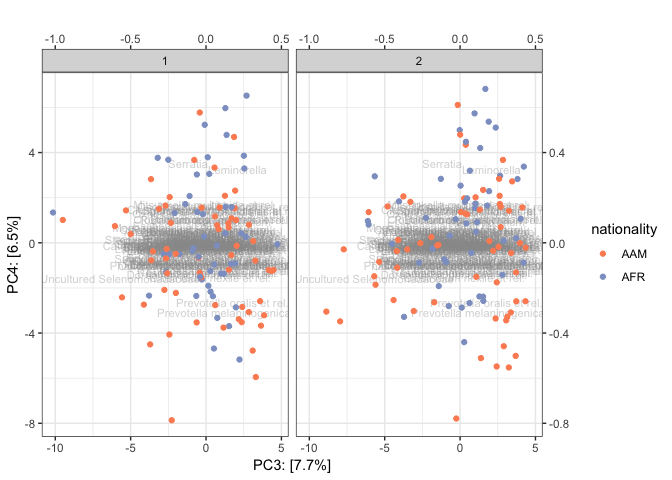
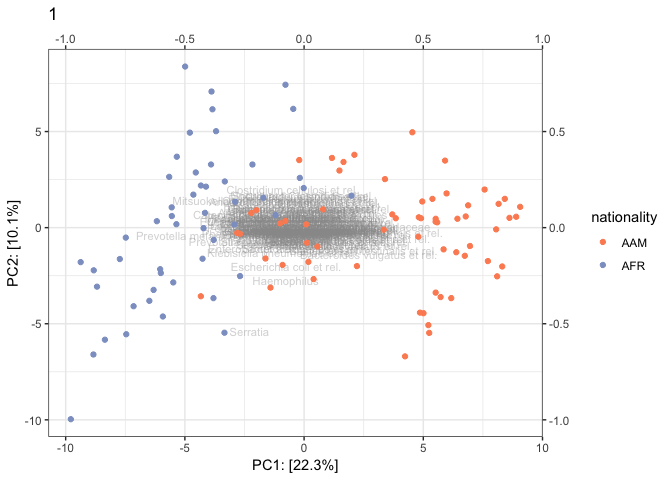
biplot example added

diff --git a/Rmd/biplot_example.md b/Rmd/biplot_example.md
@@ -38,7 +38,7 @@ scale_30[[1]]
 We have several opportunities to split the data by grouping factors. See the comments:
 
 ``` r
-# grouping by color:
+# grouping with color:
 biplot(pseq_clr, color = "nationality")
 ```
 
@@ -52,82 +52,30 @@ biplot(pseq_clr, color = "nationality")
 ![](biplot_example_files/figure-markdown_github/unnamed-chunk-4-2.png)
 
 ``` r
-# grouping by color and facetting 
-biplot(pseq_clr, color = "nationality", facet = "timepoint.within.group")
+# grouping with color and facet
+biplot(pseq_clr, color = "nationality", facet = "timepoint.within.group")[[1]]
 ```
-
-    ## [[1]]
 
 ![](biplot_example_files/figure-markdown_github/unnamed-chunk-4-3.png)
 
-    ## 
-    ## [[2]]
+``` r
+# we might want to see bigger plots and avoid facet. 
+biplot(pseq_clr, color = "nationality", split_by = "timepoint.within.group")[[1]]
+```
 
 ![](biplot_example_files/figure-markdown_github/unnamed-chunk-4-4.png)
 
 ``` r
-# we might want to see bigger plots and avoid facetting. See the title of
-# the plot to identify the group, here timepoint.within.group:
-biplot(pseq_clr, color = "nationality", split_by = "timepoint.within.group")
+# we can identify the samples using the text option:
+biplot(pseq_clr, color = "nationality", split_by = "bmi_group", text = TRUE)[[1]]
 ```
-
-    ## [[1]]
 
 ![](biplot_example_files/figure-markdown_github/unnamed-chunk-4-5.png)
-
-    ## 
-    ## [[2]]
-
-![](biplot_example_files/figure-markdown_github/unnamed-chunk-4-6.png)
-
-    ## 
-    ## [[3]]
-
-![](biplot_example_files/figure-markdown_github/unnamed-chunk-4-7.png)
-
-    ## 
-    ## [[4]]
-
-![](biplot_example_files/figure-markdown_github/unnamed-chunk-4-8.png)
-
-``` r
-# we can identify the samples using the text option:
-biplot(pseq_clr, color = "nationality", split_by = "bmi_group", text = TRUE)
-```
-
-    ## [[1]]
-
-![](biplot_example_files/figure-markdown_github/unnamed-chunk-4-9.png)
-
-    ## 
-    ## [[2]]
-
-![](biplot_example_files/figure-markdown_github/unnamed-chunk-4-10.png)
-
-    ## 
-    ## [[3]]
-
-![](biplot_example_files/figure-markdown_github/unnamed-chunk-4-11.png)
-
-    ## 
-    ## [[4]]
-
-![](biplot_example_files/figure-markdown_github/unnamed-chunk-4-12.png)
-
-    ## 
-    ## [[5]]
-
-![](biplot_example_files/figure-markdown_github/unnamed-chunk-4-13.png)
-
-    ## 
-    ## [[6]]
-
-![](biplot_example_files/figure-markdown_github/unnamed-chunk-4-14.png)
 
 Inspect composition over time
 -----------------------------
 
-Finally, we can predefine a subset of sample IDs. This can be helpful to inspect the development of few individuals over time. Inspecting all individuals over time in one plot can be impossible in large datasets due to overflow of information on the plot. If we want to inspect the development of two individuals over time we can do it as follows: We first define all sample IDs belonging to those subjects and then pass the sample IDs to the argument "filter\_samples" in the *biplot* function. To inspect development over time we need to provide the column name of the timepoint variable to the argument "connect\_series". Note that to achieve reasonable output, it must be assured that also "subject\_id" is defined correctly. The function assumes that the corresponding column name is "subject\_id". You might need to manually change it to the column name used in your phylosec sample data that identifies subjects (or samples sites in general).
+Finally, we can predefine a subset of sample IDs and only look at those and we can look at change in *β*−diversity over time. Inspecting all individuals over time in one plot can be impossible in large datasets due to overflow of information on the plot. If we want to inspect the development of two individuals over time we can do it as follows: We first define all sample IDs belonging to those subjects and then pass the sample IDs to the argument "filter\_samples" in the *biplot* function. To inspect development over time we need to provide the column name of the timepoint variable to the argument "connect\_series". Note that to achieve reasonable output, it must be assured that also "subject\_id" is defined correctly. The function assumes that the corresponding column name is "subject\_id". You might need to manually change it to the column name used in your phylosec sample data that identifies subjects (or samples sites in general).
 
 ``` r
 # First I need to subset the data. Here I do it outside of the phyloseq object 
